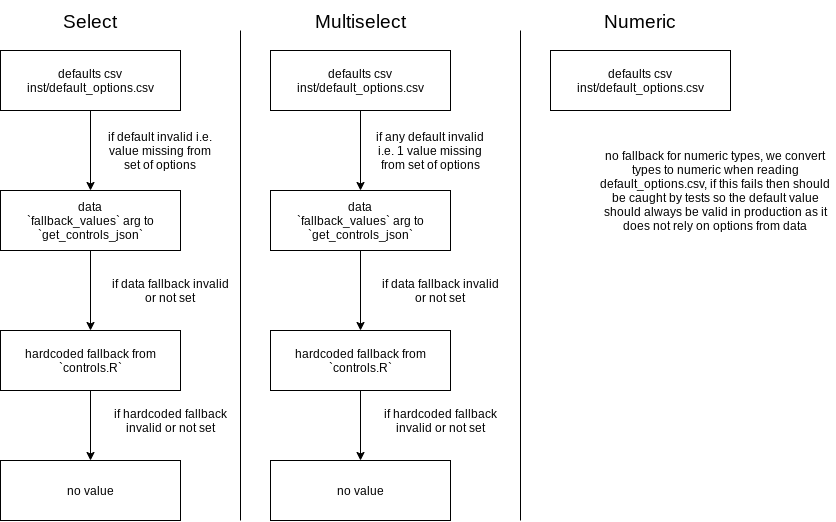
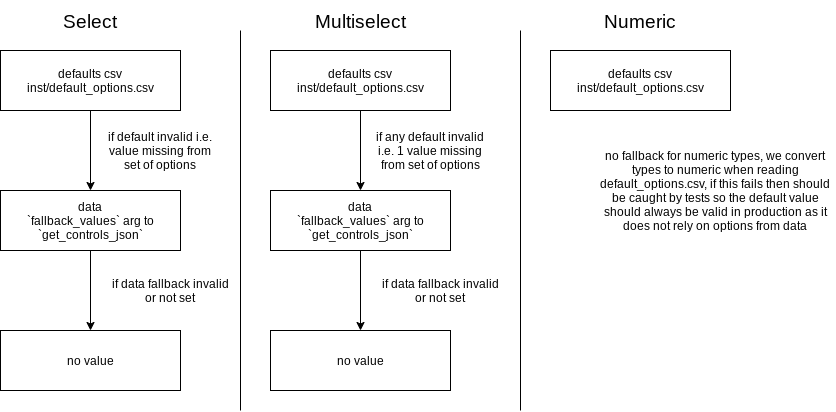
Remove ability to specify value in the model controls

diff --git a/README.md b/README.md
@@ -24,10 +24,9 @@ remotes::install_github("mrc-ide/naomi.options", upgrade = FALSE)
 
 ![](diagram/logic.png?raw=true)
 
-There are 3 possible sources for default values, in order of precedence
+There are 2 possible sources for default values, in order of precedence
 * `default_options.csv`
 * `fallback_values` coming from the data
-* hardcoded fallback from `controls.R`
 
 When building the options from hintr the way this works is
 1. hintr receives a request to return options with paths to files
@@ -35,7 +34,7 @@ When building the options from hintr the way this works is
 1. hintr calls naomi.options `get_controls_json` with the `iso3` the `options` from the data and `fallback_values` from the data. Note the `options` and `fallback_values` can be empty and indeed are for calibrate options
 1. naomi.options reads the controls from `controls.R` for this type, and adds any `options` passed as an arg into this list for each `control`
 1. naomi.options reads the default values from `default_options.csv` 
-1. For each control, naomi.options checks if csv value is valid and if it is sets this as the `value` for the control. If it is invalid it checks if there is a default in the `fallback_values` if not it checks if there is a default already set from the `controls.R` and if not uses an empty default `value`
+1. For each control, naomi.options checks if csv value is valid and if it is sets this as the `value` for the control. If it is invalid it checks if there is a default in the `fallback_values` if not uses an empty default `value`
 1. naomi.options takes the completed set of controls, serializes them to JSON and embeds them in the options json from `inst/model_options.json` or `inst/calibration_options.json` and returns to hintr
 1. hintr returns json back as response
 
